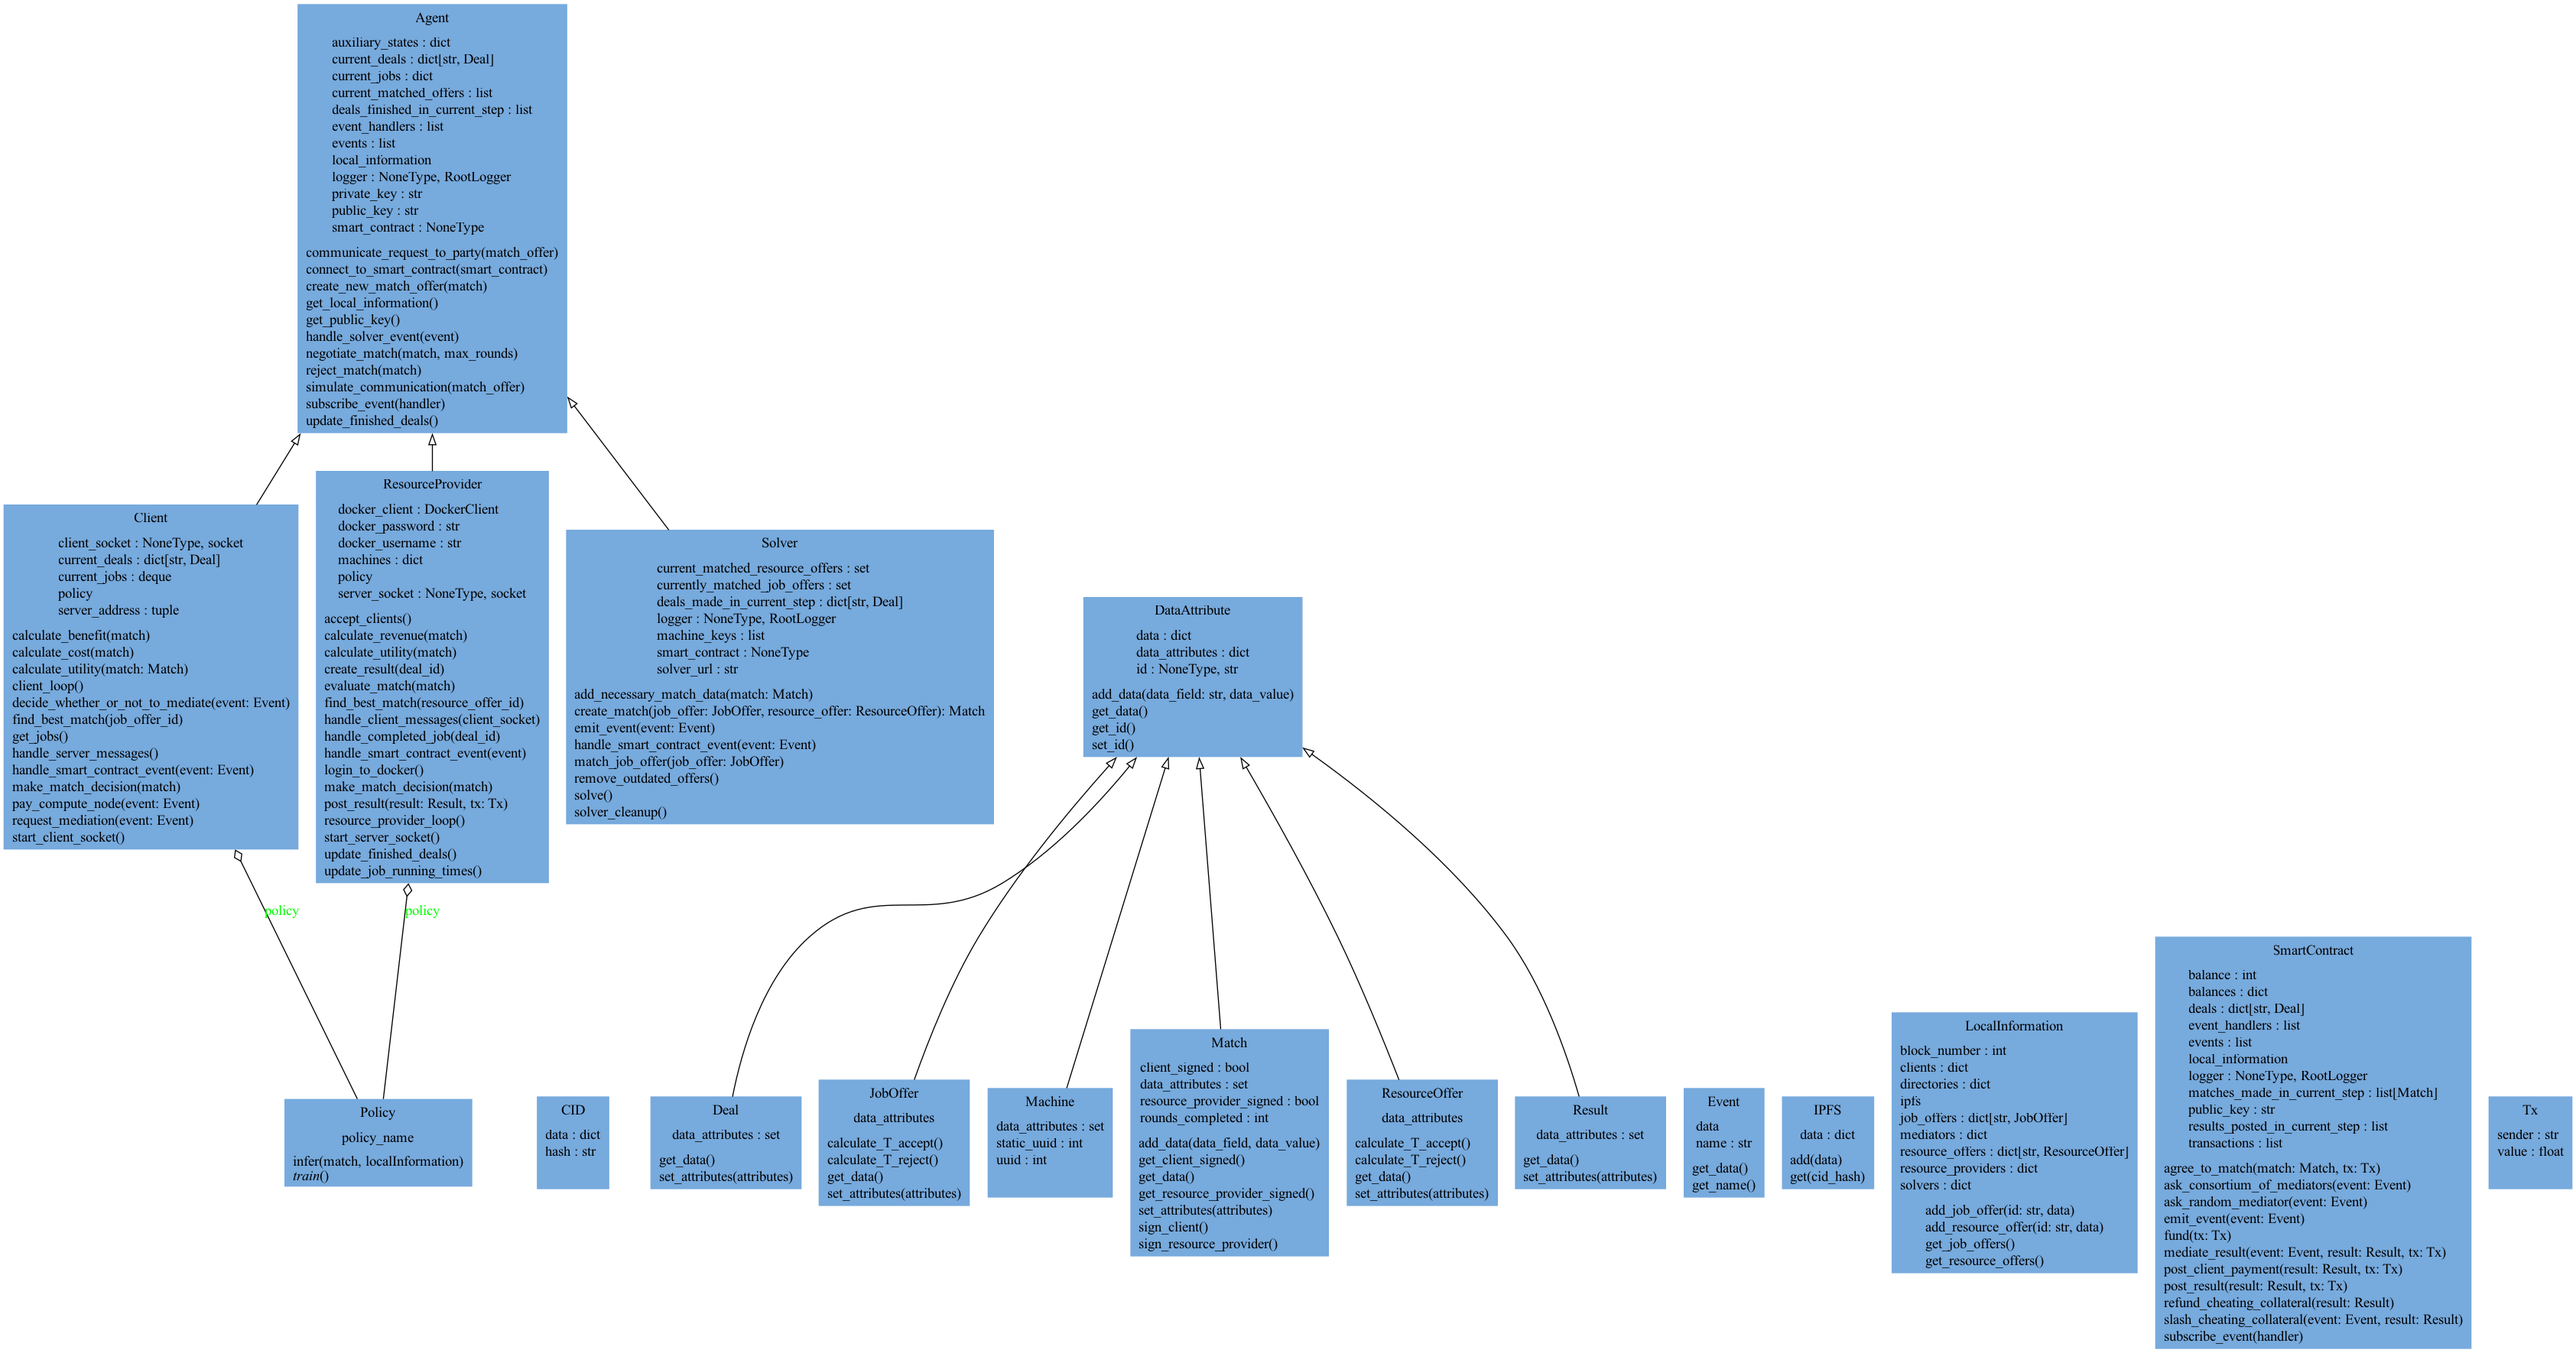
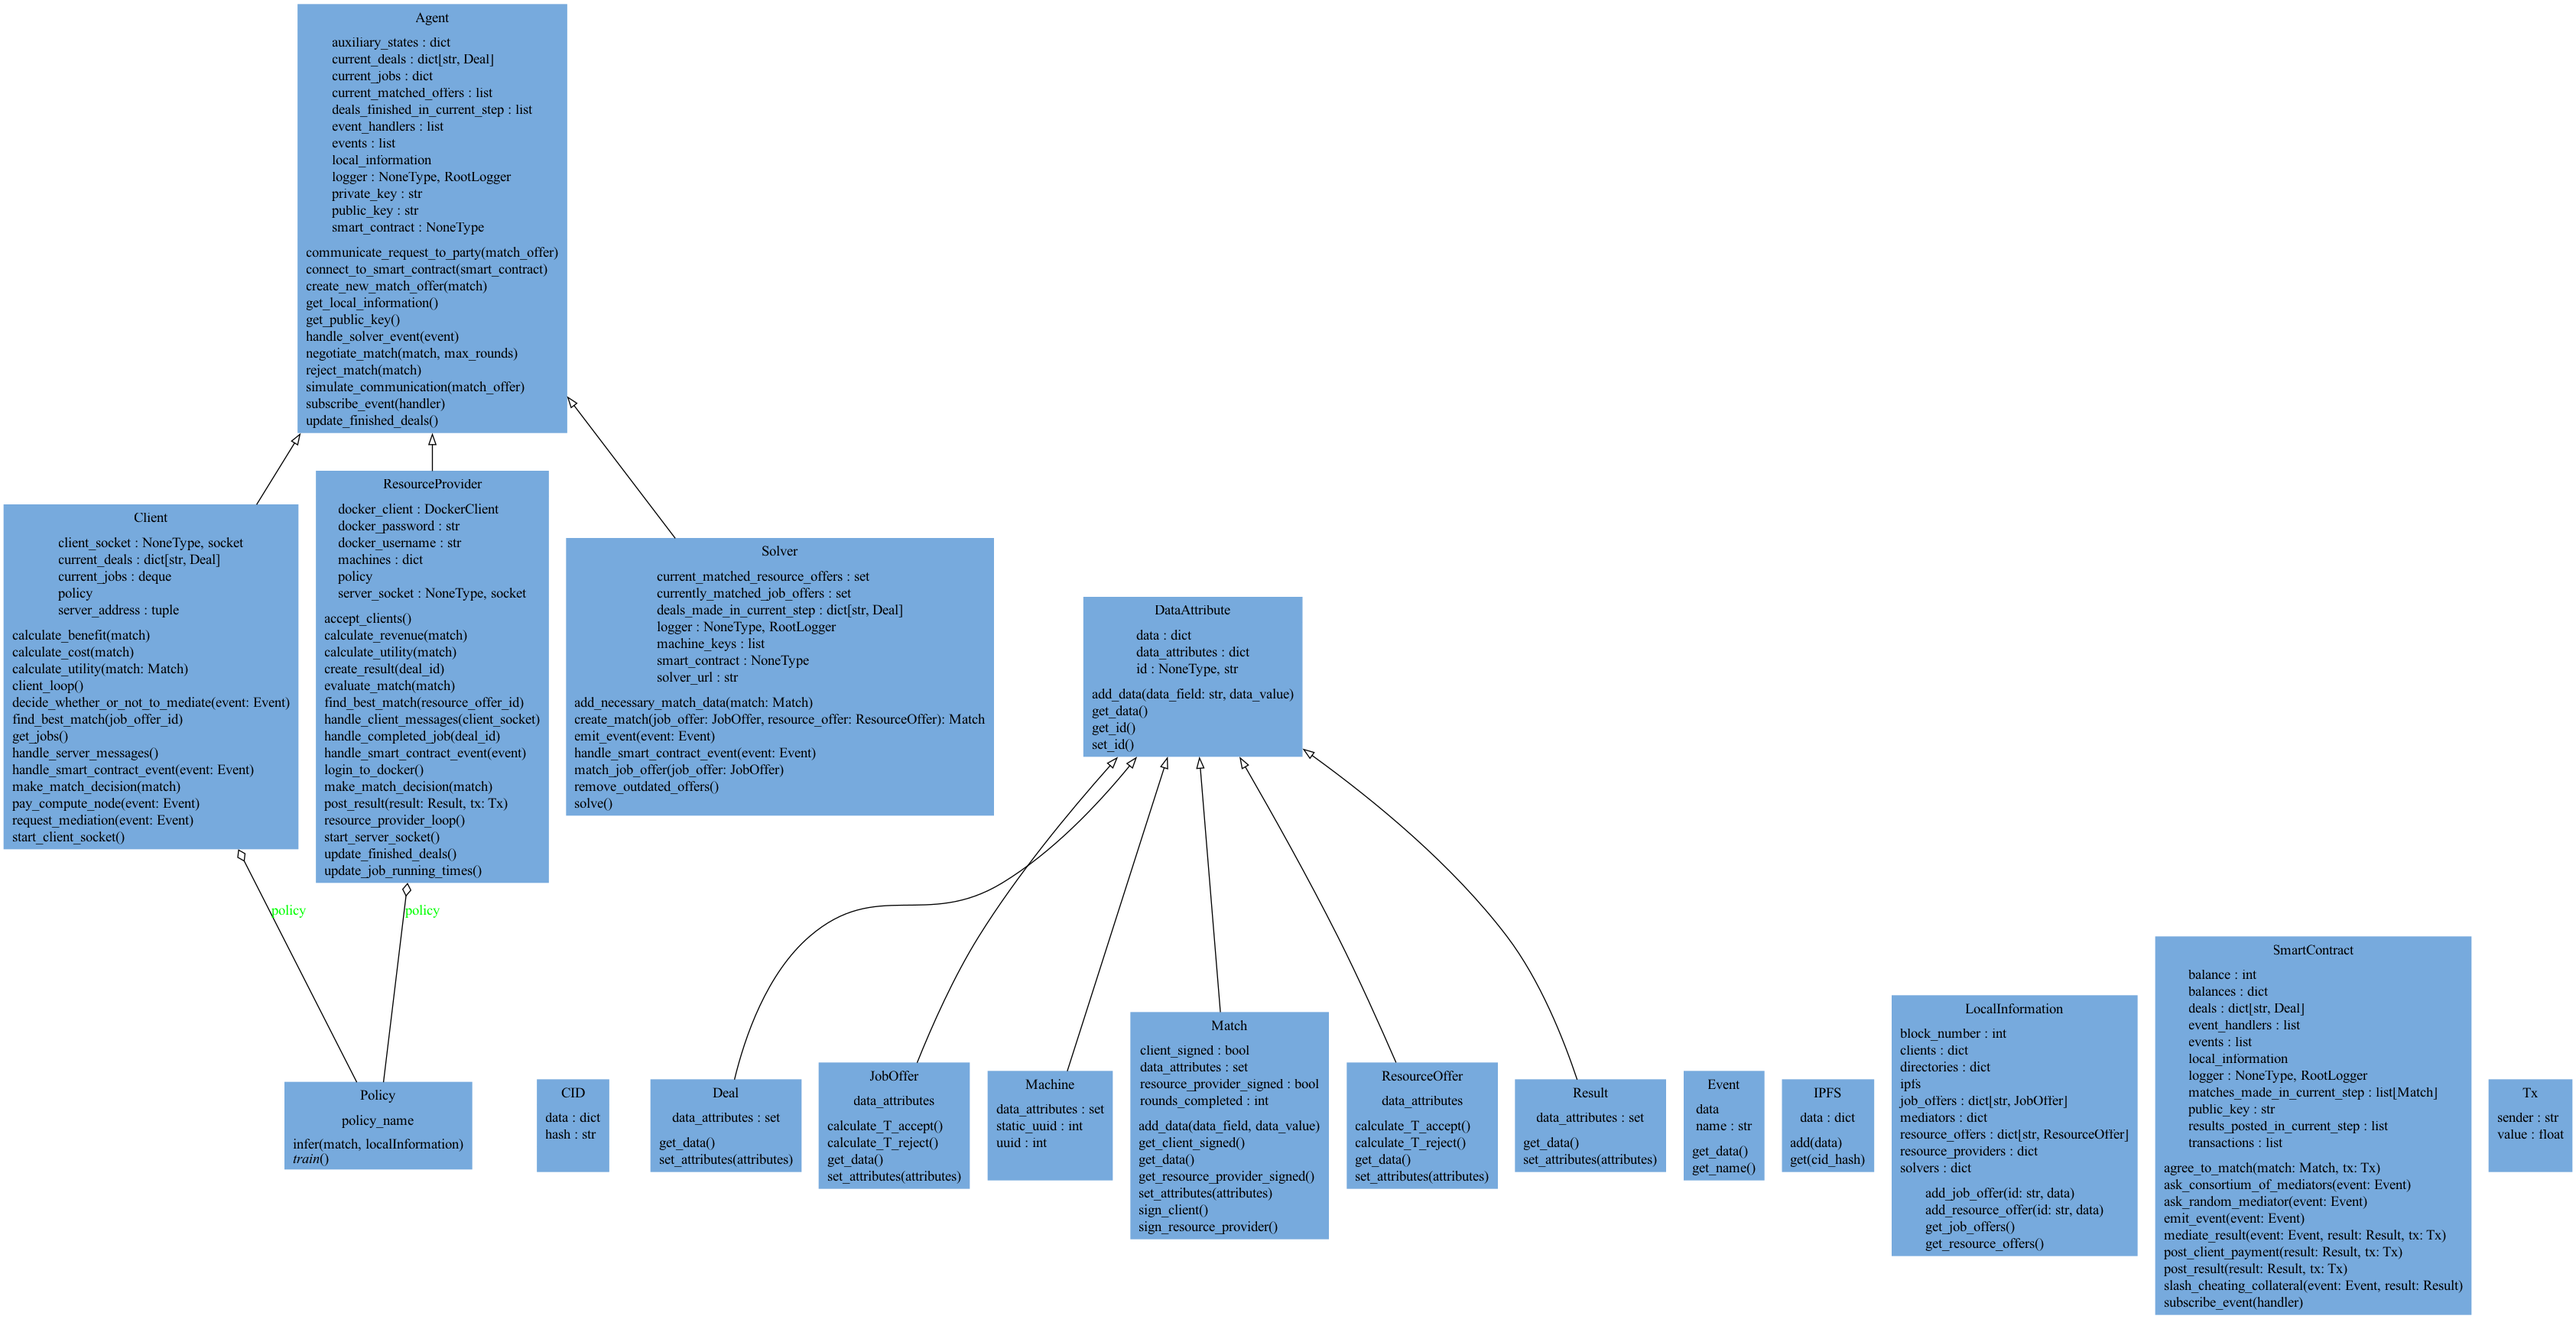
chore: chore: remove unused and legacy solver

diff --git a/coophive/solver.py b/coophive/solver.py
@@ -117,19 +117,14 @@ class Solver(Agent):
         # clear list of deals made in current step
         self.deals_made_in_current_step.clear()
 
-    def solver_cleanup(self):
-        """Perform cleanup operations for the solver."""
-        self.currently_matched_job_offers.clear()
-        self.current_matched_resource_offers.clear()
-        # remove outdated job and resource offers
-        self.remove_outdated_offers()
-
     def emit_event(self, event: Event):
         """Emit an event and notify all subscribed event handlers."""
         self.events.append(event)
         for event_handler in self.event_handlers:
             event_handler(event)
 
+    # TODO: transfer functionality inside policy evaluation at the agent level.
+    # This is a solver-specific policy, but still a policy.
     def solve(self):
         """Solve the current matching problem by matching job offers with resource offers."""
         for job_offer_id, job_offer in (

diff --git a/tests/test_solver.py b/tests/test_solver.py
@@ -133,18 +133,6 @@ def test_remove_outdated_offers(setup_solver):
     )
 
 
-def test_solver_cleanup(setup_solver):
-    """Test solver cleanup process."""
-    solver = setup_solver["solver"]
-    solver.currently_matched_job_offers = {"job_offer_123"}
-    solver.current_matched_resource_offers = {"resource_offer_123"}
-    solver.deals_made_in_current_step = [setup_solver["deal"]]
-    solver.solver_cleanup()
-    assert not solver.currently_matched_job_offers
-    assert not solver.current_matched_resource_offers
-    assert not solver.deals_made_in_current_step
-
-
 def test_solve(setup_solver):
     """Test the solve method of the solver."""
     solver = setup_solver["solver"]
